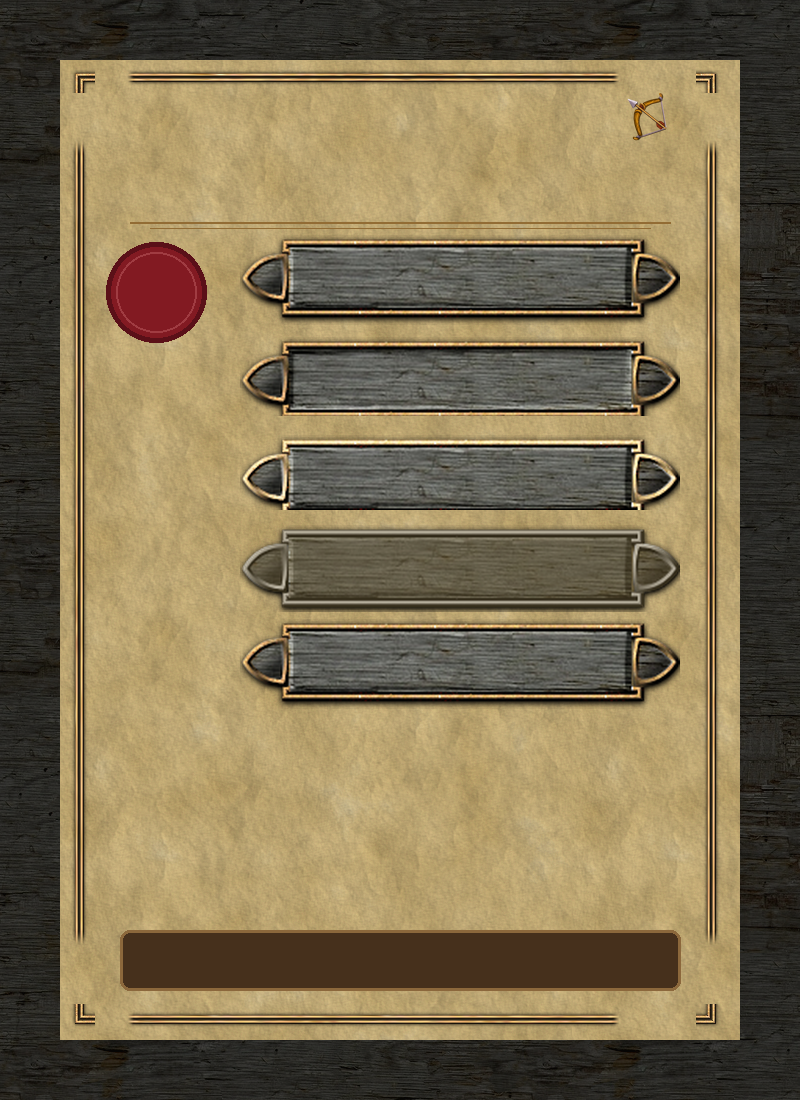
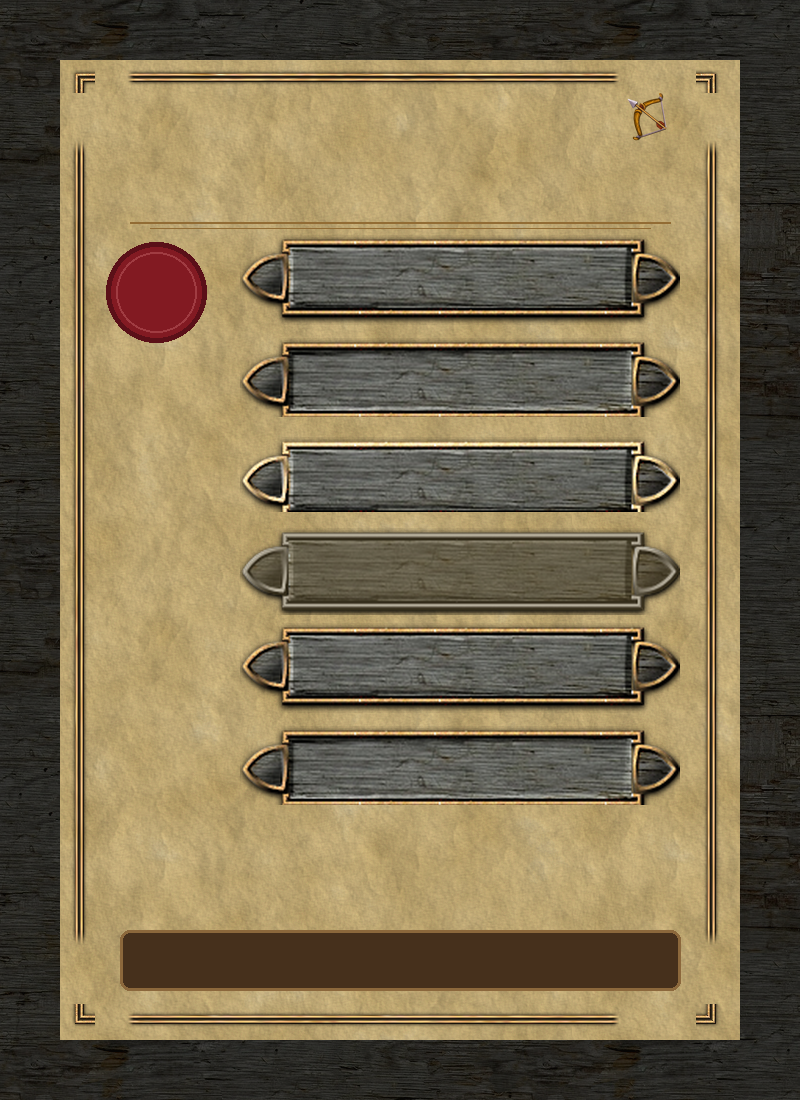
feat(rpg): reloadservers command + decree dot leaders + Woodmere MAG row
- <prefix> reloadservers (owner/mod): re-syncs shared mod Sets + card roles
  from DB, drops profile-card asset caches (renderer clearCaches()) and the
  GoService health memo, then POSTs /admin/reload on BOTH Go image services
  (GO_IMAGE_SERVICE_URL remote + co-located 127.0.0.1:7860, deduped). Each Go
  service self-execs a fresh process (same PID, pm2 keeps tracking) so new
  sprites/assets are picked up without a full bot restart.
- Royal Decree (style 7): stat dotted leaders started at x=0 ("dots.from":
  "label" was never implemented in drawDots) and painted across the portrait
  window. Layout now sets dots.fromX=470 (longest baked label LUCK ends @456);
  pixel-verified: portrait-zone dot pixels 525 -> 6 (residual = baked border).
- Woodmere (style 4): MAG was missing from the stats list. bg_4.png re-baked
  with 6 plank rows (cy 280/377/474/571/668/765, spacing 97 = plank height);
  layouts gain the MAG row + {V_mag} value; bake script updated to match.
- QA: before/after renders (dots + MAG + no-guild fallback + picker sheet),
  on-box live renders, dual-target /admin/reload verified from Box1 (VPC +
  local), both Go builds green with health checks after self-exec.

Changed region(s): [[0.2812, 0.3091, 0.875, 0.7418]]

diff --git a/core/engine.js b/core/engine.js
@@ -12294,7 +12294,7 @@ Usage: ${newUsage}/5${warningText}`;
                       listMsg += `  • @${economy.getDisplayName(jid)}\n`;
                     }
 
-                    listMsg += `\n_Commands:_ \`${botConfig.getPrefix()} addmod/delmod\` (General), \`${botConfig.getPrefix()} addrpgmod/delrpgmod\` (RPG), \`${botConfig.getPrefix()} addcardsmod/delcardsmod\` (Cards), \`${botConfig.getPrefix()} addgtester/delgtester\` (Game Testers)\n\n\`${botConfig.getPrefix()} reloadmods\` — refresh mod lists from DB (after external DB changes)`;
+                    listMsg += `\n_Commands:_ \`${botConfig.getPrefix()} addmod/delmod\` (General), \`${botConfig.getPrefix()} addrpgmod/delrpgmod\` (RPG), \`${botConfig.getPrefix()} addcardsmod/delcardsmod\` (Cards), \`${botConfig.getPrefix()} addgtester/delgtester\` (Game Testers)\n\n\`${botConfig.getPrefix()} reloadmods\` — refresh mod lists from DB (after external DB changes)\n\`${botConfig.getPrefix()} reloadservers\` — manually reload bot caches + BOTH Go image servers`;
                     await sock.sendMessage(chatId, {
                       text: BOT_MARKER + listMsg,
                       mentions: Array.from(allModJids).filter(j => j && j.includes('@')),
@@ -12567,6 +12567,76 @@ Usage: ${newUsage}/5${warningText}`;
                       await sock.sendMessage(chatId, { text: BOT_MARKER + msg });
                     } catch (e) {
                       await sock.sendMessage(chatId, { text: BOT_MARKER + `❌ Reload failed: ${e.message}` });
+                    }
+                    return;
+                  }
+                  // <prefix> reloadservers — manually reload BOTH servers (owner/mod only):
+                  //   1) this bot instance: shared mod Sets re-synced from DB +
+                  //      profile-card asset caches dropped (layouts/bg re-read from disk)
+                  //   2) BOTH Go image services: POST /admin/reload → each one self-execs
+                  //      a fresh process (same PID, pm2 keeps tracking; assets re-read).
+                  //      Targets = GO_IMAGE_SERVICE_URL (the remote instance the bot renders
+                  //      with) + the co-located 127.0.0.1:7860 instance — deduped when equal.
+                  // Added 2026-09-12: manual counterpart to the 45s mod auto-refresh, and
+                  // the way to push new card assets live without a full bot restart.
+                  if (
+                    lowerTxt === `${botConfig.getPrefix().toLowerCase()} reloadservers` ||
+                    lowerTxt === `${botConfig.getPrefix().toLowerCase()} reload servers` ||
+                    lowerTxt === `${botConfig.getPrefix().toLowerCase()} reload`
+                  ) {
+                    if (!isOwner && !isGlobalMod(senderJid)) {
+                      return await sock.sendMessage(chatId, {
+                        text: BOT_MARKER + "❌ Only moderators can reload the servers.",
+                      });
+                    }
+                    try {
+                      // 1) bot-side: shared mod Sets, fresh from MongoDB
+                      await refreshSharedModSets();
+                      let cardModCount = 0;
+                      try {
+                        const cardSystem = require('./rpg/cardSystem');
+                        const inst = cardSystem.getInst();
+                        if (inst && inst.modJids) {
+                          inst.modJids.clear();
+                          if (typeof cardSystem.loadRoles === 'function') {
+                            await cardSystem.loadRoles();
+                          }
+                          cardModCount = inst.modJids.size;
+                        }
+                      } catch (e) {}
+                      // 2) bot-side: drop profile-card asset + health caches
+                      let assetCacheCleared = false;
+                      try {
+                        const pcr = require('./rpg/profileCardRenderer');
+                        if (typeof pcr.clearCaches === 'function') { pcr.clearCaches(); assetCacheCleared = true; }
+                      } catch (e) {}
+                      try { require('./utils/goImageService').resetHealthCache?.(); } catch (e) {}
+
+                      // 3) Go image services (both instances)
+                      const goUrls = [];
+                      const pushUrl = (u) => { if (u && !goUrls.includes(String(u).replace(/\/+$/, ''))) goUrls.push(String(u).replace(/\/+$/, '')); };
+                      pushUrl(process.env.GO_IMAGE_SERVICE_URL || 'http://127.0.0.1:7860');
+                      pushUrl('http://127.0.0.1:7860');
+                      const goLines = [];
+                      for (const u of goUrls) {
+                        try {
+                          const resp = await axios.post(`${u}/admin/reload`, {}, { timeout: 8000 });
+                          goLines.push(`✅ ${u} → reloading (fresh process, assets re-read)`);
+                        } catch (e) {
+                          goLines.push(`❌ ${u} → ${e.message}`);
+                        }
+                      }
+
+                      let msg = `🔄 *MANUAL SERVER RELOAD*\n\n`;
+                      msg += `🤖 *Bot instance:*\n`;
+                      msg += `• Mod lists re-synced from DB — General: ${globalMods.size} | RPG: ${rpgMods.size} | Cards: ${cardsMods.size} | CardSys: ${cardModCount}\n`;
+                      msg += `• Profile-card asset cache: ${assetCacheCleared ? 'cleared (layouts/bg re-read on next render)' : 'clear unavailable'}\n\n`;
+                      msg += `🖼 *Go image services:*\n`;
+                      msg += goLines.join('\n') + `\n\n`;
+                      msg += `_Both image servers are re-exec'ing fresh processes — new sprites/cards are picked up without a full restart._`;
+                      await sock.sendMessage(chatId, { text: BOT_MARKER + msg });
+                    } catch (e) {
+                      await sock.sendMessage(chatId, { text: BOT_MARKER + `❌ Server reload failed: ${e.message}` });
                     }
                     return;
                   }
@@ -26592,6 +26662,7 @@ _(Or reply to their message)_
                       "delcardsmod",
                       "listmods",
                       "reloadmods",
+                      "reloadservers",
                       "spawn",
                       "cardmod",
                       "eshop",

diff --git a/core/rpg/profileCardRenderer.js b/core/rpg/profileCardRenderer.js
@@ -86,6 +86,16 @@ function getLayouts() {
   return _layouts;
 }
 
+// 💡 Manual reload support (`<prefix> reloadservers`): drop every module-level
+// cache so layouts.json / bg art / extra icons / class sprites are re-read
+// from disk on the next render. Fonts stay registered (registerFont is
+// process-global and idempotent). Called by the engine's reload command.
+function clearCaches() {
+  _layouts = null;
+  _imgCache.clear();
+  _sheetCache.clear();
+}
+
 const _imgCache = new Map();
 async function loadImg(dir, name) {
   const key = `${dir}/${name}`;
@@ -659,4 +669,4 @@ const EQUIPMENT_SLOTS = [
   { key: 'cloak', label: 'Cloak', short: 'CLK', icon: 'cloak.png' }
 ];
 
-module.exports = { renderProfileCard, renderStyleSheet, DEFAULT_STYLE, getDefaultStyle, RANK_COLORS, RANK_GRADIENTS, STAT_COLORS, EQUIP_RARITY, EQUIPMENT_SLOTS };
+module.exports = { renderProfileCard, renderStyleSheet, clearCaches, DEFAULT_STYLE, getDefaultStyle, RANK_COLORS, RANK_GRADIENTS, STAT_COLORS, EQUIP_RARITY, EQUIPMENT_SLOTS };

diff --git a/core/utils/goImageService.js b/core/utils/goImageService.js
@@ -913,3 +913,12 @@ const _sharedInstance = new GoImageService();
 module.exports = _sharedInstance;
 module.exports.GoImageService = GoImageService;
 module.exports.getShared = () => _sharedInstance;
+
+// 💡 Manual reload support (`<prefix> reloadservers`): drop the 60s isHealthy()
+// memo so the next image command re-probes the Go service immediately after a
+// reload/restart instead of trusting a pre-reload cached verdict.
+function resetHealthCache() {
+  _healthCache.value = null;
+  _healthCache.expiresAt = 0;
+}
+module.exports.resetHealthCache = resetHealthCache;
